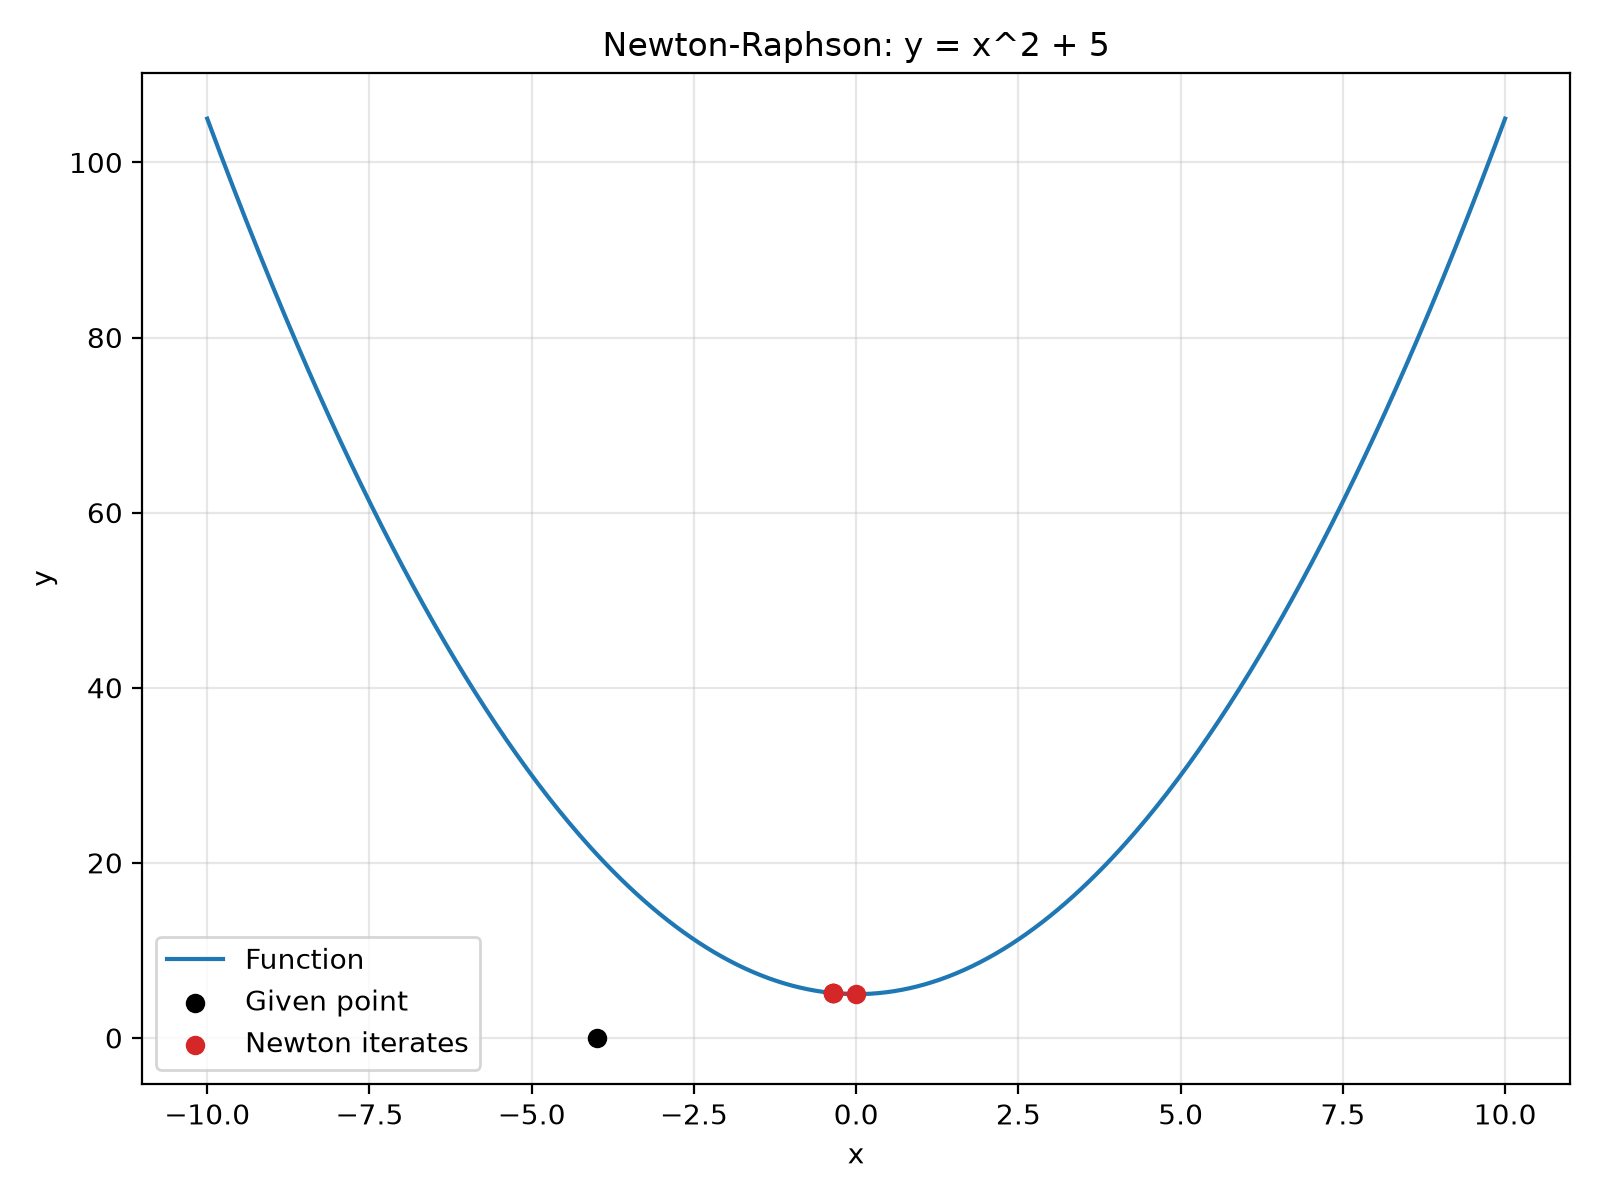
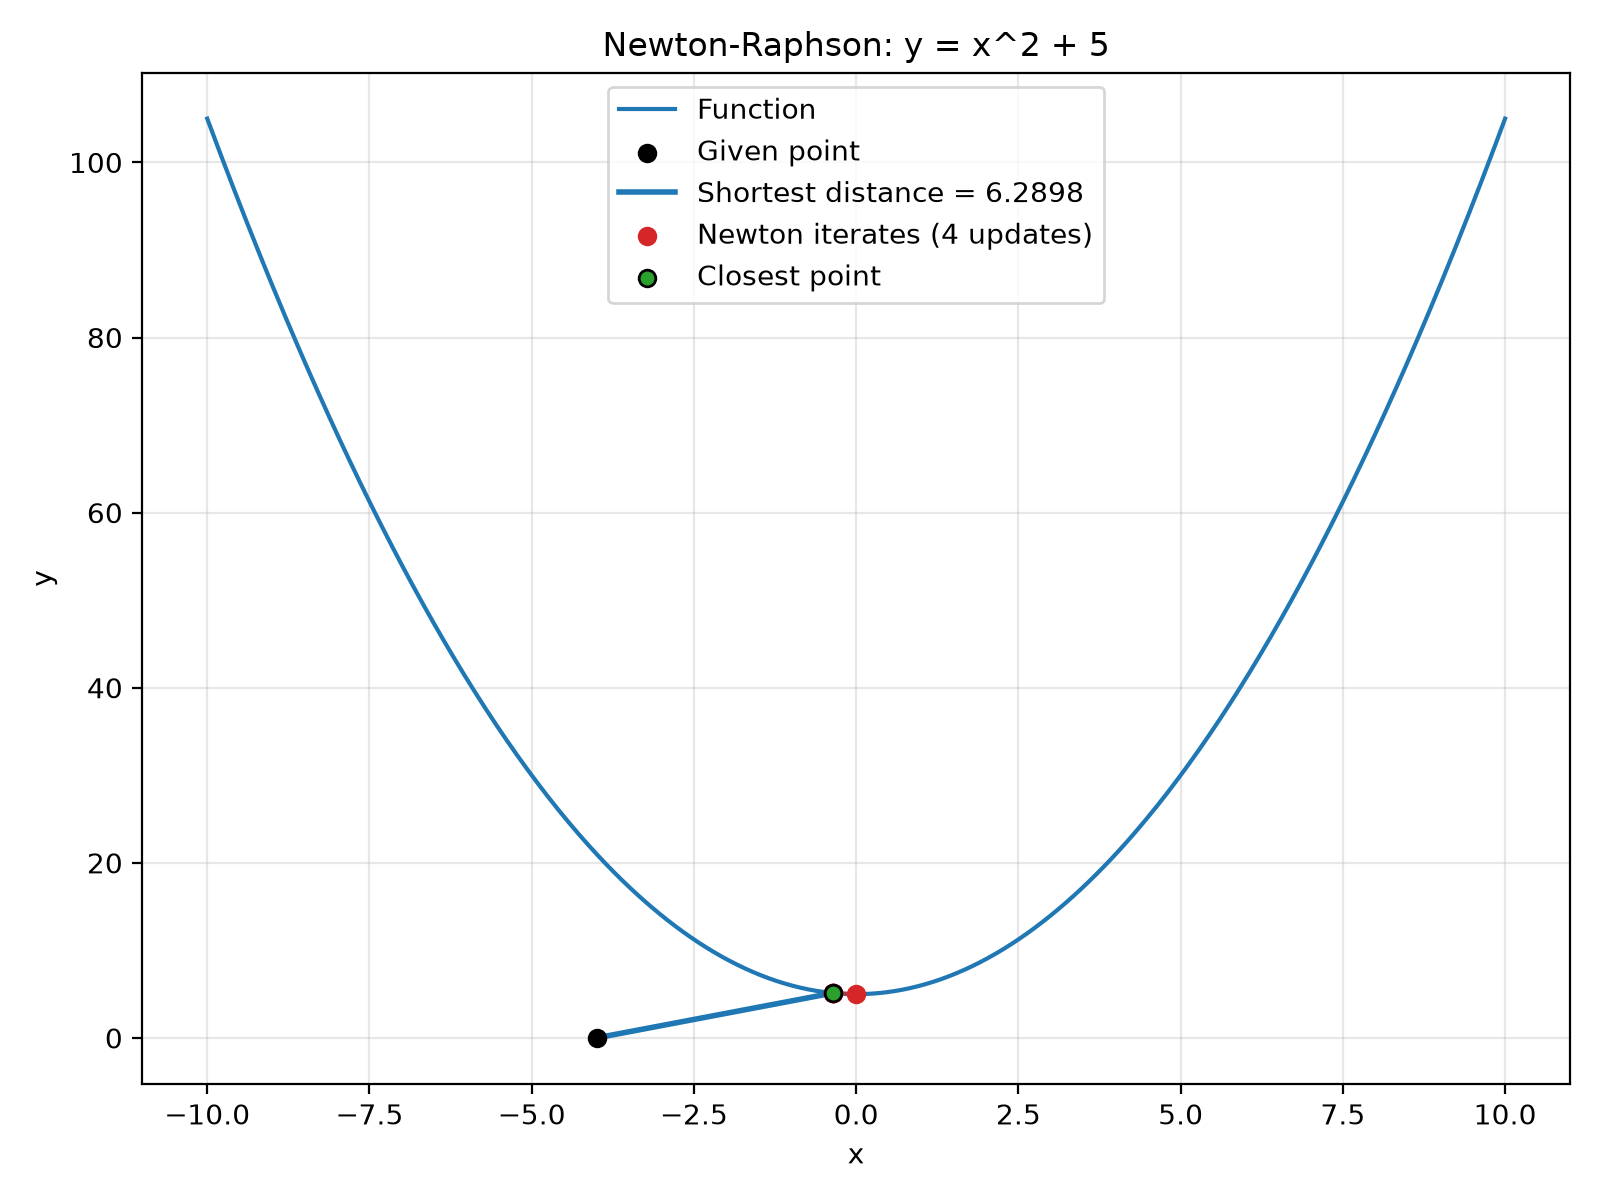
plot update

diff --git a/1/index1.html b/1/index1.html
@@ -114,56 +114,62 @@
         </tbody>
     </table>
 
-    <h4>Parabola: Newton-Raphson</h4>
-    <img
-        class="plot"
-        src="./media/parabola-newton.png"
-        alt="Newton-Raphson iterations for the parabola"
-    >
+    <div class="plot-group">
+        <figure>
+            <figcaption>Parabola: Newton-Raphson</figcaption>
+            <img
+                class="plot"
+                src="./media/parabola-newton.png"
+                alt="Newton-Raphson iterations for the parabola"
+            >
+        </figure>
+        <figure>
+            <figcaption>Parabola: Golden-Section Search</figcaption>
+            <img
+                class="plot"
+                src="./media/parabola-golden-section.png"
+                alt="Golden-section iterations for the parabola"
+            >
+        </figure>
+    </div>
 
-    <h4>Parabola: Golden-Section Search</h4>
-    <p>
-        The orange regions show the 1st, 2nd, 3rd, and final search intervals.
-    </p>
-    <img
-        class="plot"
-        src="./media/parabola-golden-section.png"
-        alt="Golden-section search iterations for the parabola"
-    >
+    <div class="plot-group">
+        <figure>
+            <figcaption>Exponential Function: Newton-Raphson</figcaption>
+            <img
+                class="plot"
+                src="./media/exponential-newton.png"
+                alt="Newton-Raphson iterations for the exponential function"
+            >
+        </figure>
+        <figure>
+            <figcaption>Exponential Function: Golden-Section Search</figcaption>
+            <img
+                class="plot"
+                src="./media/exponential-golden-section.png"
+                alt="Golden-section iterations for the exponential function"
+            >
+        </figure>
+    </div>
 
-    <h4>Exponential Function: Newton-Raphson</h4>
-    <img
-        class="plot"
-        src="./media/exponential-newton.png"
-        alt="Newton-Raphson iterations for the exponential function"
-    >
-
-    <h4>Exponential Function: Golden-Section Search</h4>
-    <p>
-        The orange regions show the 1st, 2nd, 3rd, and final search intervals.
-    </p>
-    <img
-        class="plot"
-        src="./media/exponential-golden-section.png"
-        alt="Golden-section search iterations for the exponential function"
-    >
-
-    <h4>Logarithmic Function: Newton-Raphson</h4>
-    <img
-        class="plot"
-        src="./media/logarithmic-newton.png"
-        alt="Newton-Raphson iterations for the logarithmic function"
-    >
-
-    <h4>Logarithmic Function: Golden-Section Search</h4>
-    <p>
-        The orange regions show the 1st, 2nd, 3rd, and final search intervals.
-    </p>
-    <img
-        class="plot"
-        src="./media/logarithmic-golden-section.png"
-        alt="Golden-section search iterations for the logarithmic function"
-    >
+    <div class="plot-group">
+        <figure>
+            <figcaption>Logarithmic Function: Newton-Raphson</figcaption>
+            <img
+                class="plot"
+                src="./media/logarithmic-newton.png"
+                alt="Newton-Raphson iterations for the logarithmic function"
+            >
+        </figure>
+        <figure>
+            <figcaption>Logarithmic Function: Golden-Section Search</figcaption>
+            <img
+                class="plot"
+                src="./media/logarithmic-golden-section.png"
+                alt="Golden-section iterations for the logarithmic function"
+            >
+        </figure>
+    </div>
 
     <p>
         The complete Python source code is available here:

diff --git a/style.css b/style.css
@@ -98,6 +98,33 @@ code {
     box-shadow: 0 5px 16px rgba(38, 50, 56, 0.08);
 }
 
+.plot-group {
+    display: grid;
+    grid-template-columns: repeat(2, minmax(0, 1fr));
+    gap: 18px;
+    margin: 18px 0 36px;
+    padding: 18px;
+    border: 1px solid var(--line);
+    border-radius: 6px;
+    background: var(--paper);
+    box-shadow: 0 5px 16px rgba(38, 50, 56, 0.08);
+}
+
+.plot-group figure {
+    margin: 0;
+}
+
+.plot-group figcaption {
+    margin-bottom: 8px;
+    color: var(--muted);
+    font-weight: 700;
+}
+
+.plot-group .plot {
+    max-width: none;
+    margin: 0;
+}
+
 table {
     border-collapse: collapse;
     width: 100%;
@@ -155,5 +182,9 @@ tbody tr:nth-child(even) {
         display: block;
         overflow-x: auto;
         white-space: nowrap;
+    }
+
+    .plot-group {
+        grid-template-columns: 1fr;
     }
 }

diff --git a/1/part1.py b/1/part1.py
@@ -74,12 +74,37 @@ def plot_newton_raphson(x0, y0, f, iterations, x_limits, title, filename):
     x_values = _sample_values(*x_limits)
     y_values = [f(value) for value in x_values]
     iteration_y = [f(value) for value in iterations]
+    closest_x = iterations[-1]
+    closest_y = f(closest_x)
+    distance = math.hypot(closest_x - x0, closest_y - y0)
+    update_count = len(iterations) - 1
 
     plt.figure(figsize=(8, 6))
     plt.plot(x_values, y_values, label="Function")
     plt.scatter(x0, y0, color="black", zorder=3, label="Given point")
-    plt.scatter(iterations, iteration_y, color="tab:red", zorder=3, label="Newton iterates")
+    plt.plot(
+        [x0, closest_x],
+        [y0, closest_y],
+        color="tab:blue",
+        linewidth=2,
+        label=f"Shortest distance = {distance:.4f}",
+    )
+    plt.scatter(
+        iterations,
+        iteration_y,
+        color="tab:red",
+        zorder=3,
+        label=f"Newton iterates ({update_count} updates)",
+    )
     plt.plot(iterations, iteration_y, "--", color="tab:red", alpha=0.7)
+    plt.scatter(
+        closest_x,
+        closest_y,
+        color="tab:green",
+        edgecolor="black",
+        zorder=4,
+        label="Closest point",
+    )
     plt.xlabel("x")
     plt.ylabel("y")
     plt.title(f"Newton-Raphson: {title}")
@@ -95,10 +120,39 @@ def plot_golden_section(x0, y0, f, iterations, x_limits, title, filename):
     y_values = [f(value) for value in x_values]
     left, right = iterations[-1][:2]
     best_x = (left + right) / 2
+    best_y = f(best_x)
+    distance = math.hypot(best_x - x0, best_y - y0)
+    update_count = len(iterations) - 1
+    evaluation_x = [value for item in iterations for value in item[2:]]
+    evaluation_y = [f(value) for value in evaluation_x]
+
     plt.figure(figsize=(8, 6))
     plt.plot(x_values, y_values, label="Function")
     plt.scatter(x0, y0, color="black", zorder=3, label="Given point")
-    plt.scatter(best_x, f(best_x), color="tab:red", zorder=3, label="Closest point")
+    plt.plot(
+        [x0, best_x],
+        [y0, best_y],
+        color="tab:blue",
+        linewidth=2,
+        label=f"Shortest distance = {distance:.4f}",
+    )
+    plt.scatter(
+        evaluation_x,
+        evaluation_y,
+        color="tab:purple",
+        alpha=0.35,
+        s=18,
+        zorder=2,
+        label=f"Golden-section evaluations ({update_count} updates)",
+    )
+    plt.scatter(
+        best_x,
+        best_y,
+        color="tab:green",
+        edgecolor="black",
+        zorder=4,
+        label="Closest point",
+    )
 
     # Show the first three and final search intervals as orange regions.
     interval_indices = [0, 1, 2, len(iterations) - 1]
@@ -110,7 +164,14 @@ def plot_golden_section(x0, y0, f, iterations, x_limits, title, filename):
         interval_indices, interval_labels, interval_alphas
     ):
         left, right = iterations[index][:2]
-        plt.axvspan(left, right, color="tab:orange", alpha=alpha)
+        interval_label = "Search intervals" if index == 0 else None
+        plt.axvspan(
+            left,
+            right,
+            color="tab:orange",
+            alpha=alpha,
+            label=interval_label,
+        )
         axis.text(
             (left + right) / 2,
             0.93 - 0.07 * interval_labels.index(label),
